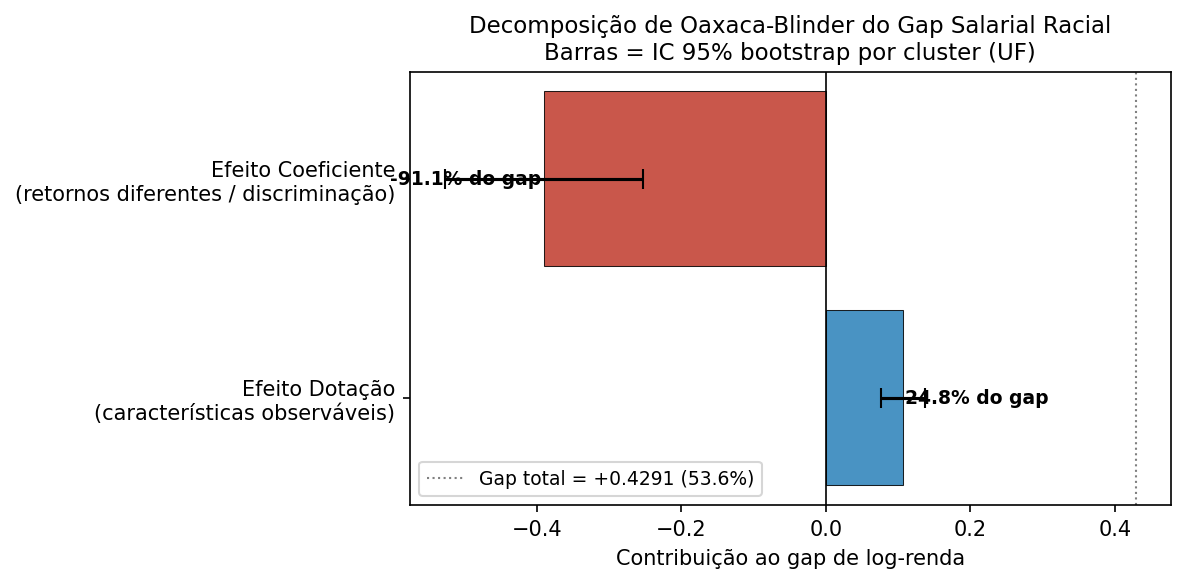
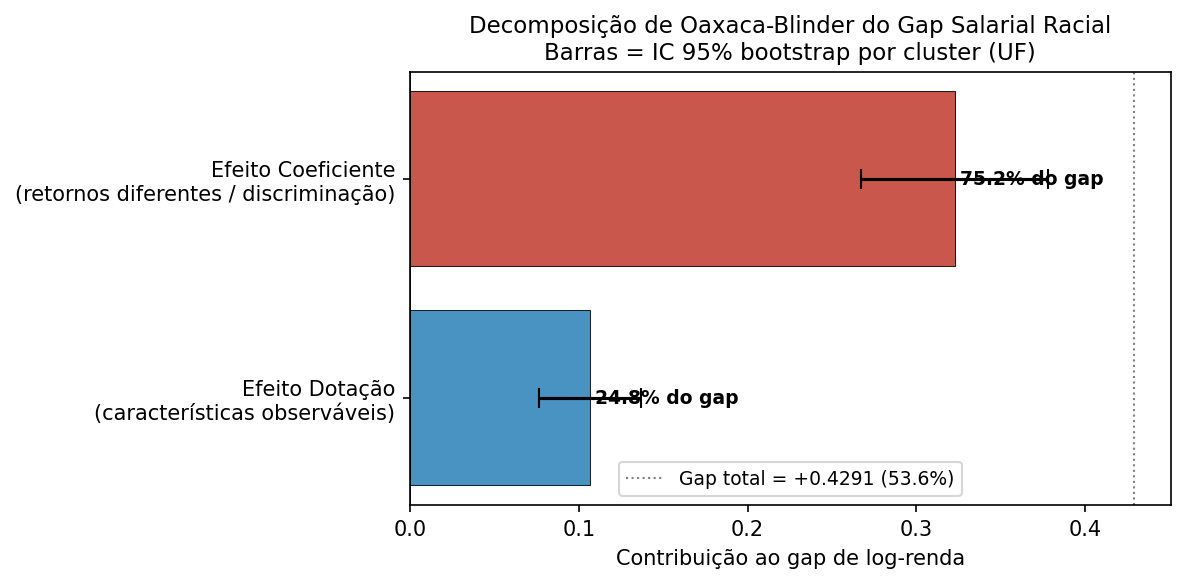
fix(oaxaca): regenera tabela/figura com decomposição correta + cita % no resumo
Re-run populacional de run_analise_retornos_raciais.py (15,9M obs, 200 bootstrap)
com o intercepto corrigido. Tabela agora fecha: dotações 24,8% (+0,1065, SE 0,0154)
e discriminação 75,2% (+0,3226, SE 0,0283), somando o gap +0,4291. Resumo (PT) e
abstract (EN) passam a citar 24,8%/75,2%.

diff --git a/tcc/scripts/gerar_relatorio_enxuto.py b/tcc/scripts/gerar_relatorio_enxuto.py
@@ -104,10 +104,8 @@ o teto se aperta no extremo superior (top~10\%) e resiste a todos os controles.
 
 # Resumo (PT) e Abstract (EN) reescritos para o núcleo de 4 + robustez (SHAP).
 # Substituem os blocos do gerador completo (que descreve K-Means/SNA/TOPSIS) sem
-# tocar no gerador — sobrevivem à regeração. Nota: NÃO se cita % de Oaxaca-Blinder
-# porque a tabela atual (ob_decomposicao.tex) está internamente inconsistente
-# (componentes não somam o gap); a evidência de discriminação ancora-se no GLMM
-# e no sticky-floor do RIF. REVISAR a tabela OB antes da entrega.
+# tocar no gerador — sobrevivem à regeração. O % de Oaxaca-Blinder (24,8%/75,2%)
+# já reflete a tabela corrigida (bug do intercepto sanado em commit 2f6b44d).
 RESUMO_PT = r"""\begin{abstract}
 \noindent
 Este trabalho investiga o \textit{gap} salarial racial e as barreiras estruturais
@@ -125,11 +123,12 @@ brancos comparáveis em escolaridade, sexo e idade. Desse diferencial bruto, 52,
 é mediado pelo contexto de moradia (Nível~2), reduzindo o \textit{gap} líquido ---
 atribuível à discriminação direta --- a 9,6\%.
 
-A decomposição de Oaxaca--Blinder separa a parcela do gap explicada por dotações
-(capital humano e posição ocupacional) da parcela não explicada; a decomposição RIF
-por quantil revela um padrão de \textit{sticky floor}: o componente de discriminação
-de mercado é maior na base da distribuição (33,1\% no q10) e decresce rumo ao topo
-(11,2\% no q90).
+A decomposição de Oaxaca--Blinder atribui 24,8\% do gap a diferenças de dotações
+(capital humano e posição ocupacional) e 75,2\% à parcela não explicada por
+características observáveis --- um limite inferior da discriminação. A decomposição RIF
+por quantil revela ainda um padrão de \textit{sticky floor}: o componente de
+discriminação de mercado é maior na base da distribuição (33,1\% no q10) e decresce
+rumo ao topo (11,2\% no q90).
 
 O GLMM logístico de acesso confirma o teto de vidro ocupacional: controlados
 escolaridade, sexo, idade e contexto, trabalhadores negros têm \textit{odds} de
@@ -165,9 +164,10 @@ controlling for education, sex, and age. Of this gross differential, 52.5\% is
 mediated by residential context (Level~2), leaving a residual \textit{net gap} of
 9.6\% attributable to direct labour-market discrimination.
 
-The Oaxaca--Blinder decomposition separates the share of the gap explained by
-endowments (human capital and occupational position) from the unexplained share; the
-quantile RIF decomposition reveals a \textit{sticky floor} pattern: the
+The Oaxaca--Blinder decomposition attributes 24.8\% of the gap to differences in
+endowments (human capital and occupational position) and 75.2\% to the component
+unexplained by observable characteristics --- a lower bound on discrimination. The
+quantile RIF decomposition further reveals a \textit{sticky floor} pattern: the
 market-discrimination component is largest at the bottom of the distribution (33.1\%
 at q10) and declines toward the top (11.2\% at q90).
 

diff --git a/relatorio_tcc_enxuto.tex b/relatorio_tcc_enxuto.tex
@@ -117,11 +117,12 @@ brancos comparáveis em escolaridade, sexo e idade. Desse diferencial bruto, 52,
 é mediado pelo contexto de moradia (Nível~2), reduzindo o \textit{gap} líquido ---
 atribuível à discriminação direta --- a 9,6\%.
 
-A decomposição de Oaxaca--Blinder separa a parcela do gap explicada por dotações
-(capital humano e posição ocupacional) da parcela não explicada; a decomposição RIF
-por quantil revela um padrão de \textit{sticky floor}: o componente de discriminação
-de mercado é maior na base da distribuição (33,1\% no q10) e decresce rumo ao topo
-(11,2\% no q90).
+A decomposição de Oaxaca--Blinder atribui 24,8\% do gap a diferenças de dotações
+(capital humano e posição ocupacional) e 75,2\% à parcela não explicada por
+características observáveis --- um limite inferior da discriminação. A decomposição RIF
+por quantil revela ainda um padrão de \textit{sticky floor}: o componente de
+discriminação de mercado é maior na base da distribuição (33,1\% no q10) e decresce
+rumo ao topo (11,2\% no q90).
 
 O GLMM logístico de acesso confirma o teto de vidro ocupacional: controlados
 escolaridade, sexo, idade e contexto, trabalhadores negros têm \textit{odds} de
@@ -163,9 +164,10 @@ controlling for education, sex, and age. Of this gross differential, 52.5\% is
 mediated by residential context (Level~2), leaving a residual \textit{net gap} of
 9.6\% attributable to direct labour-market discrimination.
 
-The Oaxaca--Blinder decomposition separates the share of the gap explained by
-endowments (human capital and occupational position) from the unexplained share; the
-quantile RIF decomposition reveals a \textit{sticky floor} pattern: the
+The Oaxaca--Blinder decomposition attributes 24.8\% of the gap to differences in
+endowments (human capital and occupational position) and 75.2\% to the component
+unexplained by observable characteristics --- a lower bound on discrimination. The
+quantile RIF decomposition further reveals a \textit{sticky floor} pattern: the
 market-discrimination component is largest at the bottom of the distribution (33.1\%
 at q10) and declines toward the top (11.2\% at q90).
 

diff --git a/outputs/tables/ob_decomposicao.tex b/outputs/tables/ob_decomposicao.tex
@@ -7,7 +7,7 @@ Componente & Magnitude & \% do Gap & SE (bootstrap) \\
 \midrule
 Gap Total (branco − negro) & +0.4291 & 100,0 & — \\
 Efeito Dotação (características) & +0.1065 & 24.8 & (0.0154) \\
-Efeito Coeficiente (retornos / discriminação) & -0.3910 & -91.1 & (0.0699) \\
+Efeito Coeficiente (retornos / discriminação) & +0.3226 & 75.2 & (0.0283) \\
 \bottomrule
 \end{tabular}
 \end{table}
